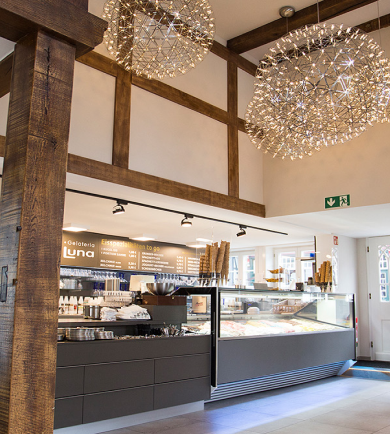
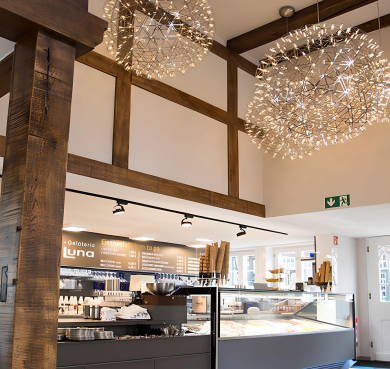
100% responsive

diff --git a/css/styles.css b/css/styles.css
@@ -13,6 +13,7 @@ body{
 .background{
     position: fixed;
     width: 100%;
+    height: auto;
 }
 
 #background-sm{
@@ -362,7 +363,7 @@ th, td {
 
 
 
-/* Medai Query  ******************************************************************************************/
+/* Media Query  ******************************************************************************************/
 
 @media (max-width: 990px) and (min-width : 0) {
     
@@ -485,4 +486,34 @@ th, td {
 
     /* fixed buttons */
 
+}
+
+@media (max-width: 1000px) and (min-width : 750px) {
+    
+    /* first section  */
+    .carousel_sm{
+        visibility: hidden;
+        position: absolute;
+      }
+
+    .carousel_lg {
+        visibility: visible;
+        position: static;
+    }
+
+    #h1-bold{
+        font-size: 5rem;
+        font-weight: 600;
+        color: #ffffff;
+    }
+
+    #heading-artemis{
+        margin-top: 15%;
+    }
+}
+
+@media (max-width: 1320px) and (min-width : 991px) {
+    .background{
+        height: 100%;
+    }
 }
